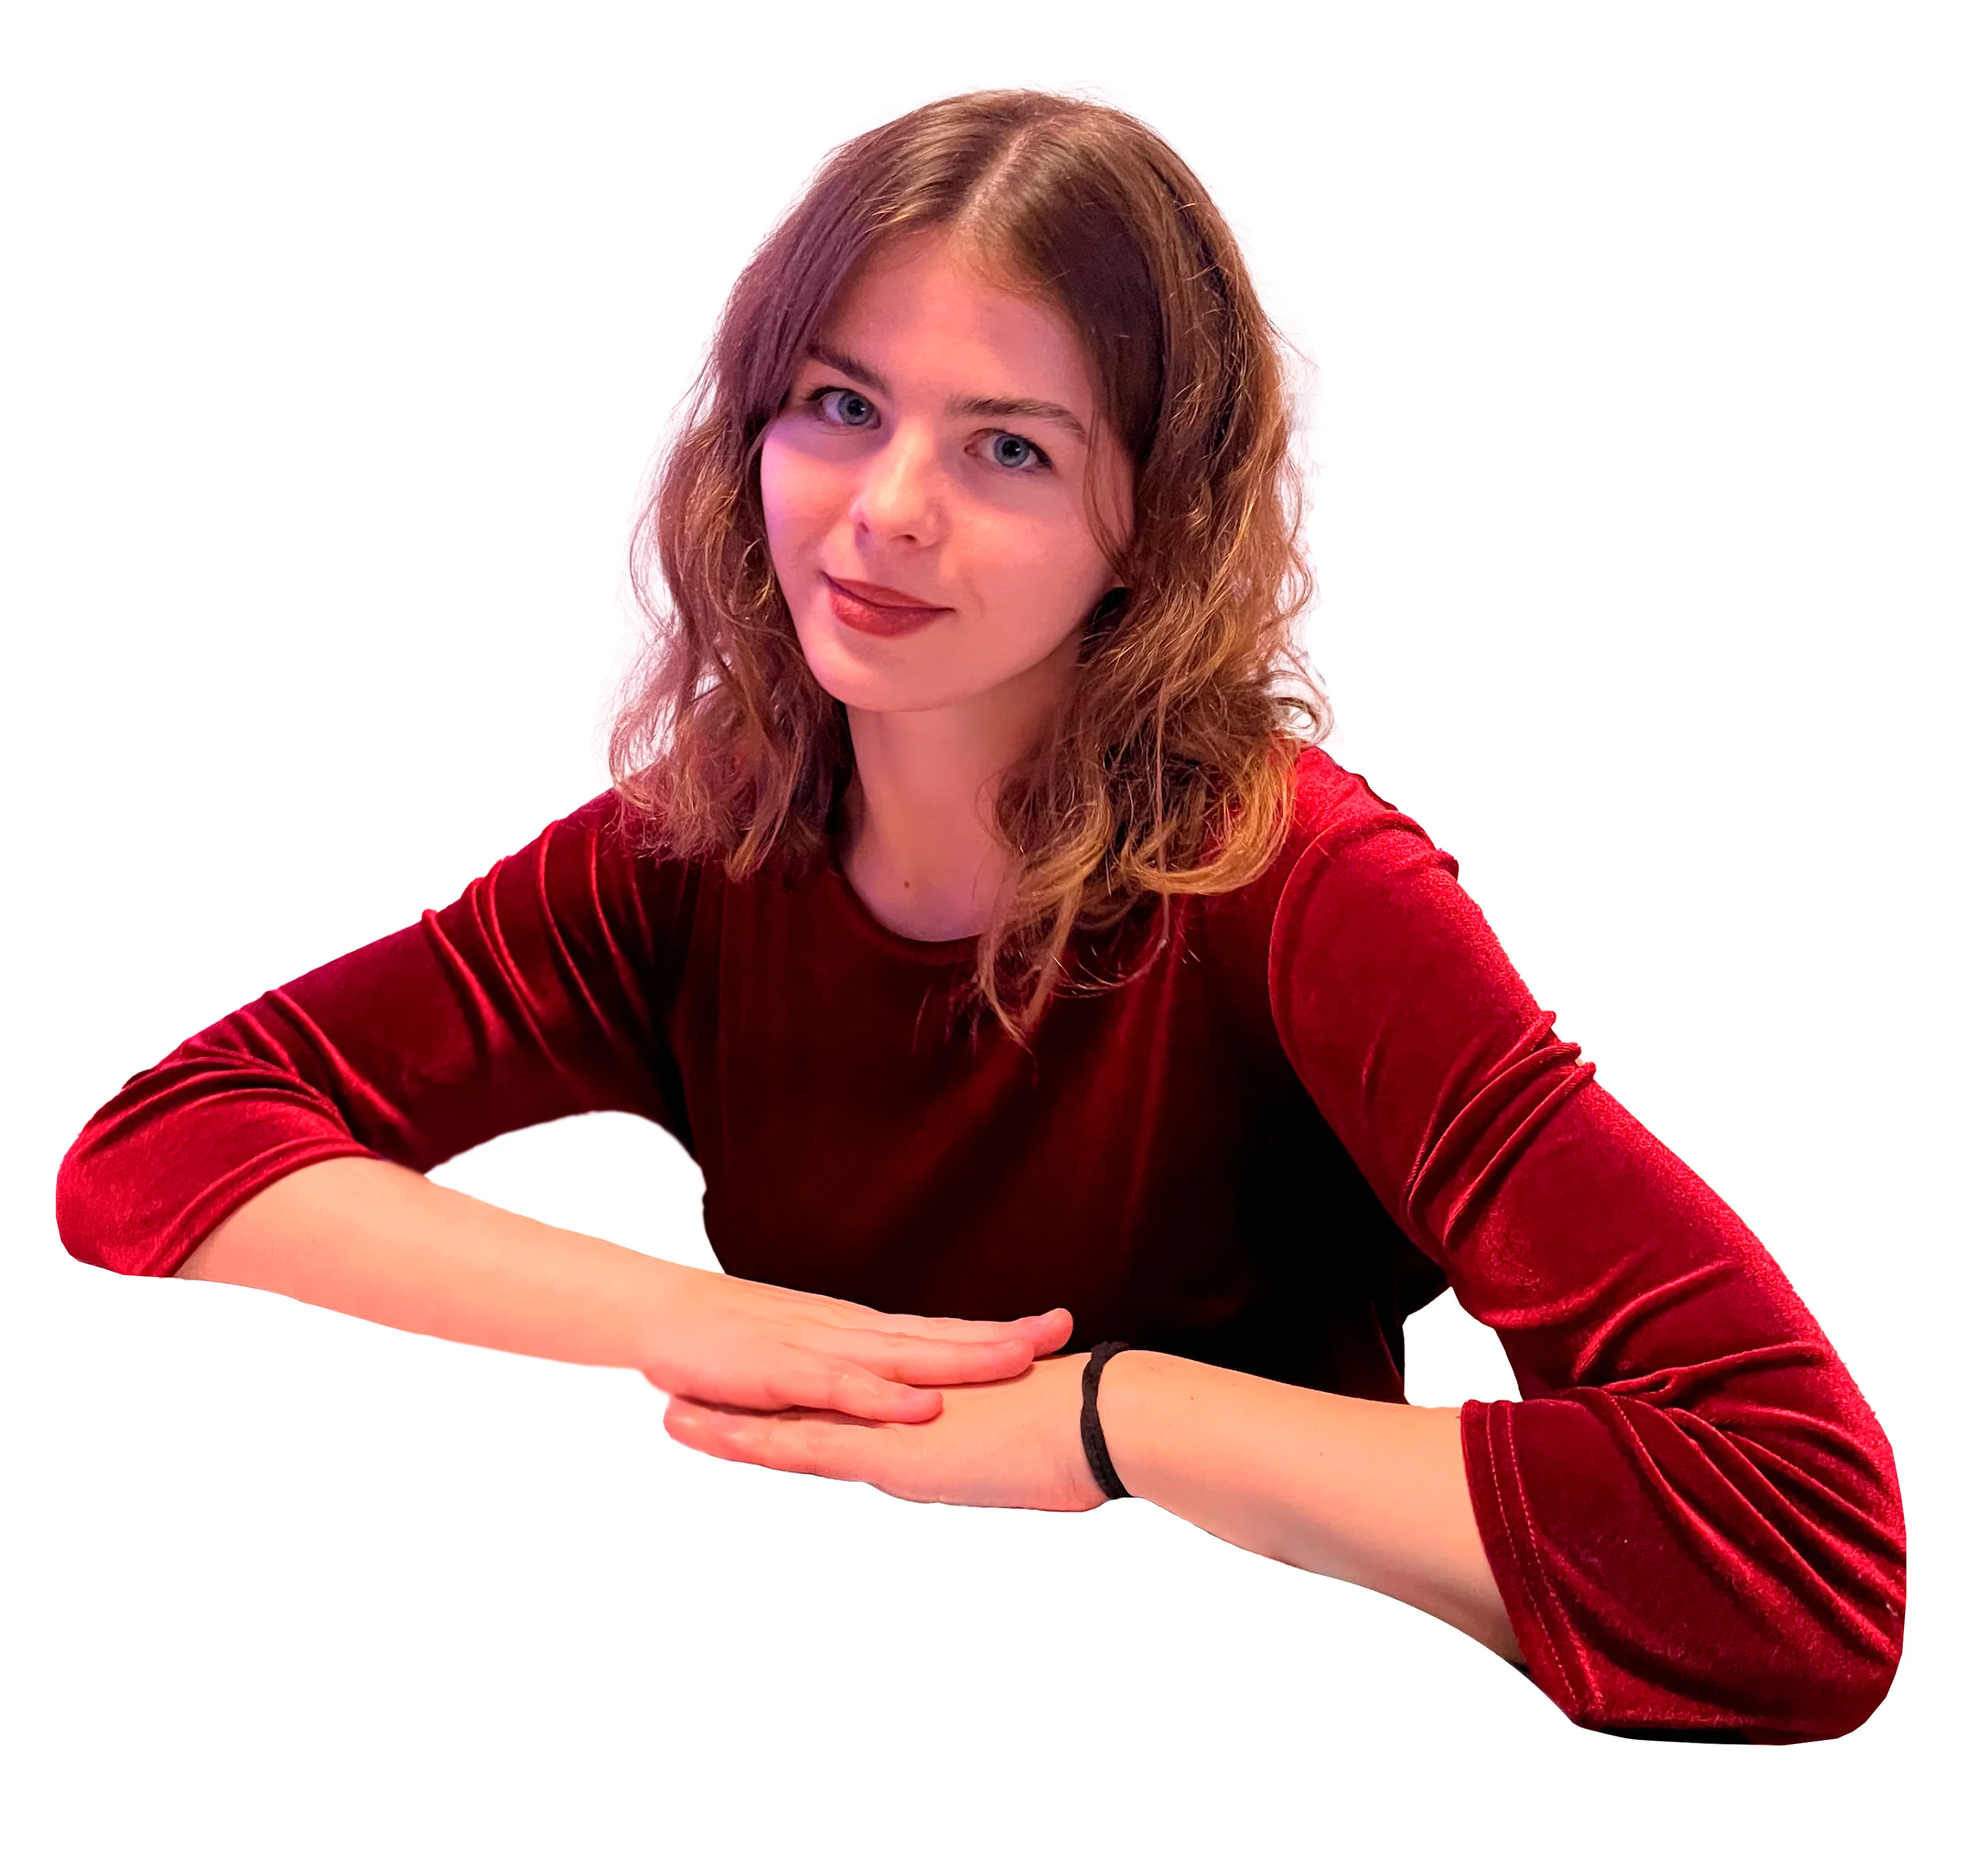
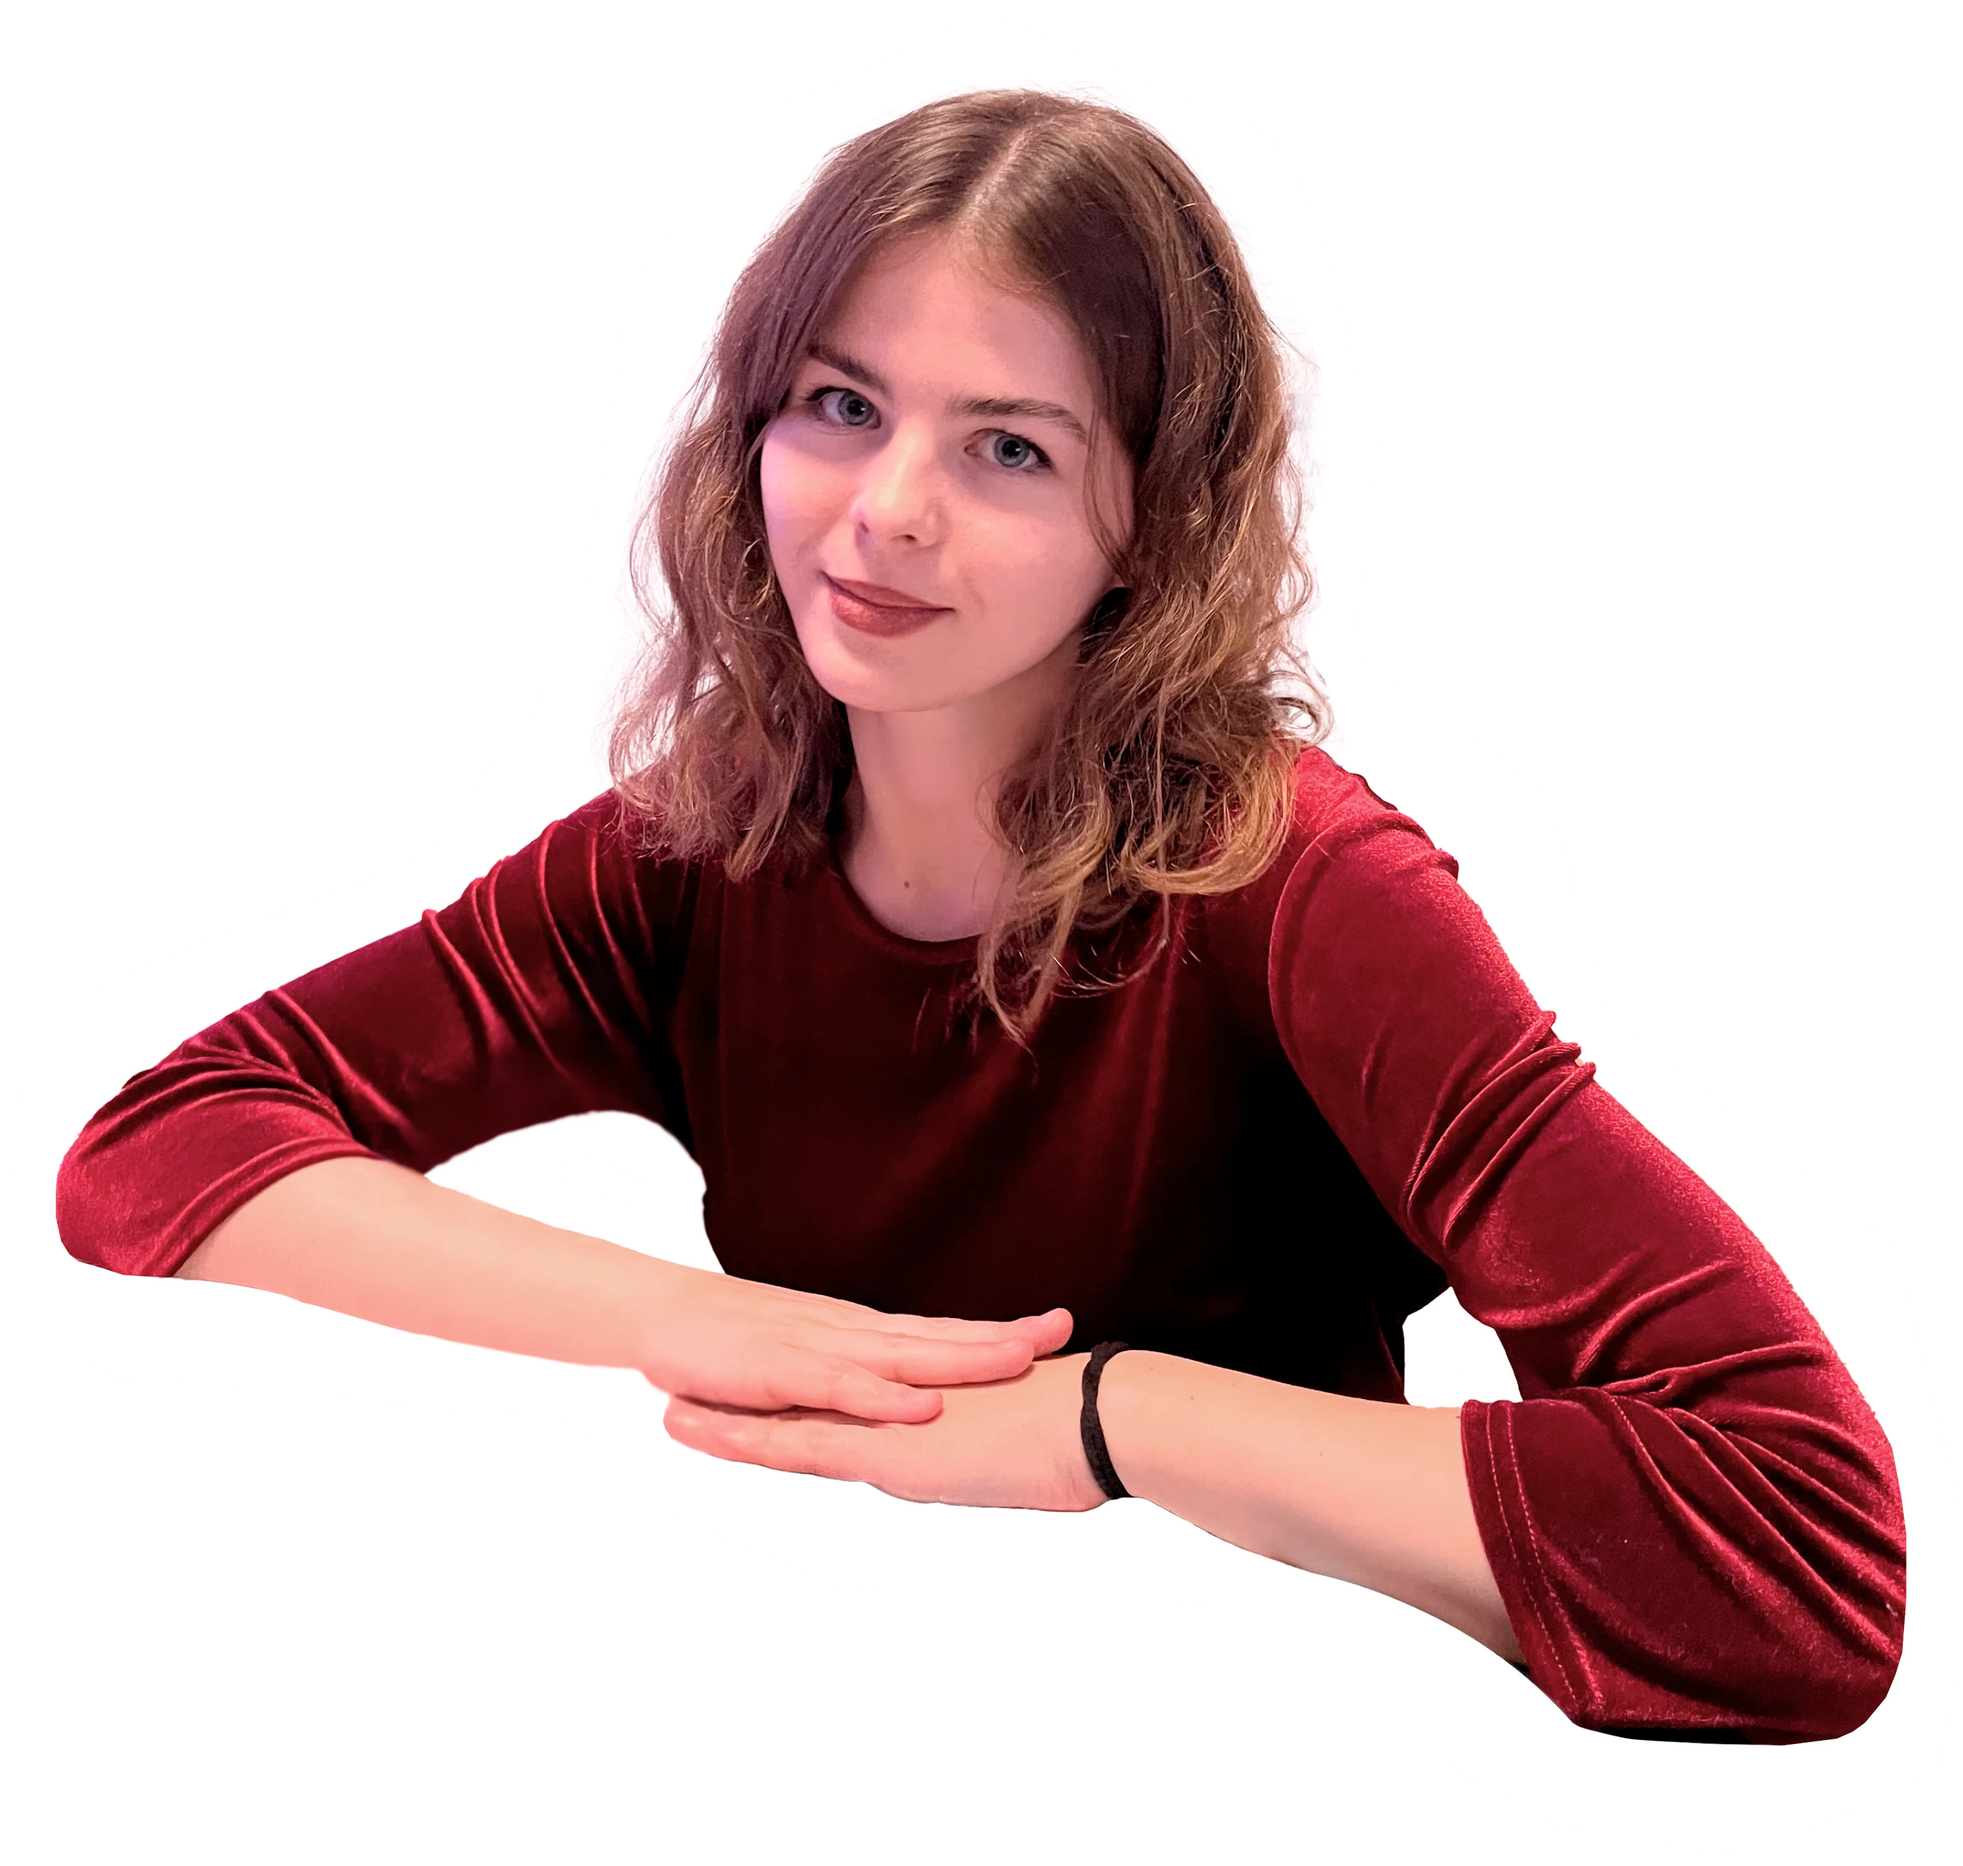
feat: improve home visability

diff --git a/app/components/Home/Home.tsx b/app/components/Home/Home.tsx
@@ -39,6 +39,7 @@ export default function Home({ content }: { content: DefaultContent }): React.Re
               src={teacher}
               fill
               alt="Софья Герасимова"
+              quality={85}
               sizes="(max-width: 375px) 40vw, (max-width: 425px) 50vw, (max-width: 480px) 60vw, (max-width: 768px) 75vw, (max-width: 1200px) 70vw, 700px"
               priority
             />

diff --git a/app/components/Home/Home.module.scss b/app/components/Home/Home.module.scss
@@ -136,7 +136,6 @@
     width: auto;
     object-fit: contain;
     object-position: bottom;
-    opacity: 0.9;
   }
 }
 
